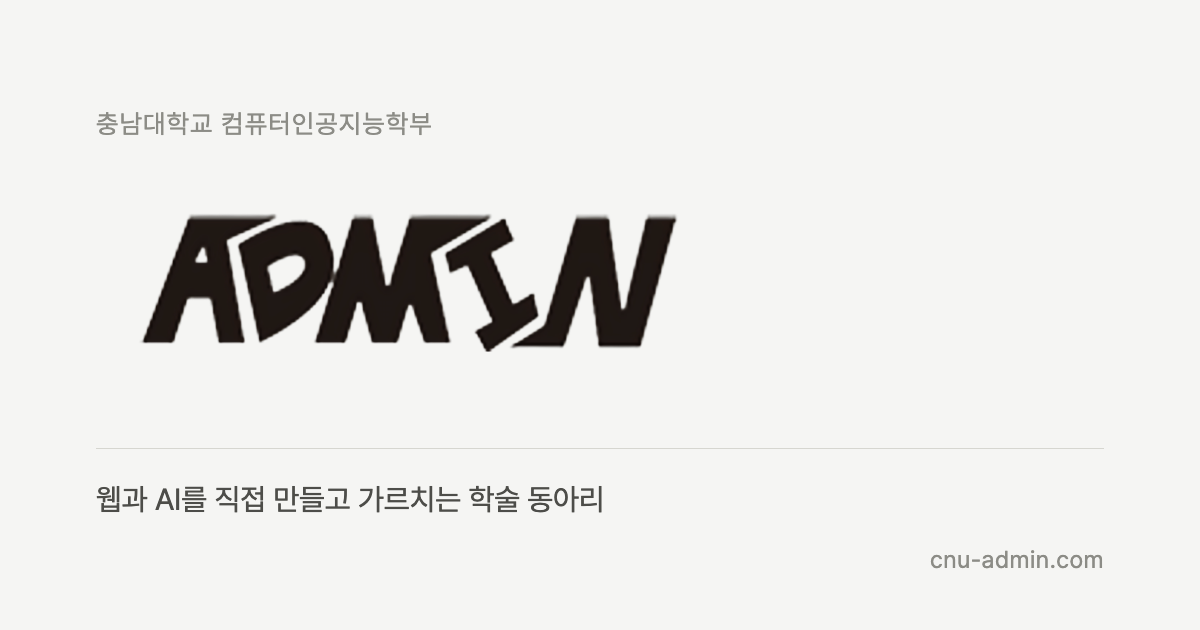
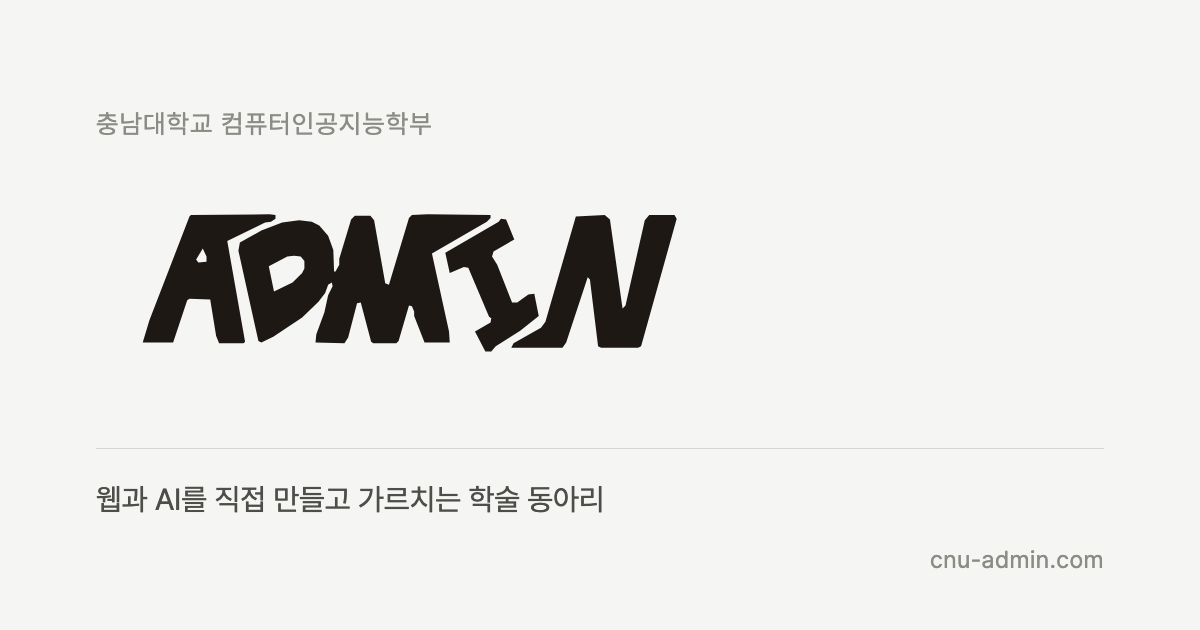
로고를 SVG로 바꾸고 첫 화면 크기를 원래대로 복원
PNG 원본(836x298)을 외곽선 추적해 벡터로 만들었다. 각진 손글씨
형태라 곡선 대신 직선 세그먼트로 단순화했고, 점 4974개를 131개로
줄였다. 119KB -> 1.2KB.

벡터라 확대해도 흐려지지 않으므로 첫 화면 로고를 520px 제한에서
원래 크기(최대 900px)로 되돌렸다. 커버 이미지도 SVG로 다시 만들었다.
파비콘은 SVG 우선, 못 읽는 브라우저는 기존 PNG 로 떨어진다.

diff --git a/style.css b/style.css
@@ -115,9 +115,8 @@ a:focus-visible,
   height: 17px;
 }
 .logo--mast {                   /* 첫 화면 */
-  /* 원본이 836px 폭이라 이보다 크게 키우면 흐려집니다.
-     더 큰 로고 파일(SVG 또는 2000px 이상)로 바꾸면 값을 키워도 됩니다. */
-  width: clamp(220px, 40vw, 520px);
+  /* SVG 라서 아무리 키워도 흐려지지 않습니다. */
+  width: clamp(240px, 60vw, 900px);
   max-width: 100%;
 }
 .masthead__name:has(.logo) {    /* 로고가 들어가면 글자용 여백은 쓰지 않음 */

diff --git a/data.js b/data.js
@@ -11,7 +11,7 @@ const DATA = {
   site: {
     name: "ADMIN",
     // 'ADMIN' 글자 대신 쓸 로고. 비워 두면 글자로 나옵니다.
-    logo: "images/admin-logo.png",
+    logo: "images/admin-logo.svg",
     // 이름 옆 작은 글씨 (학교/소속)
     affiliation: "충남대학교 컴퓨터인공지능학부",
     // 한 줄 소개. 페이지 최상단 큰 문장.

diff --git a/index.html b/index.html
@@ -19,6 +19,7 @@
 <meta property="og:locale" content="ko_KR">
 <meta name="twitter:card" content="summary_large_image">
 <link rel="canonical" href="https://cnu-admin.com/">
+<link rel="icon" href="images/admin-logo.svg" type="image/svg+xml">
 <link rel="icon" href="images/admin-logo.png" type="image/png">
 
 <link rel="preconnect" href="https://cdn.jsdelivr.net">
